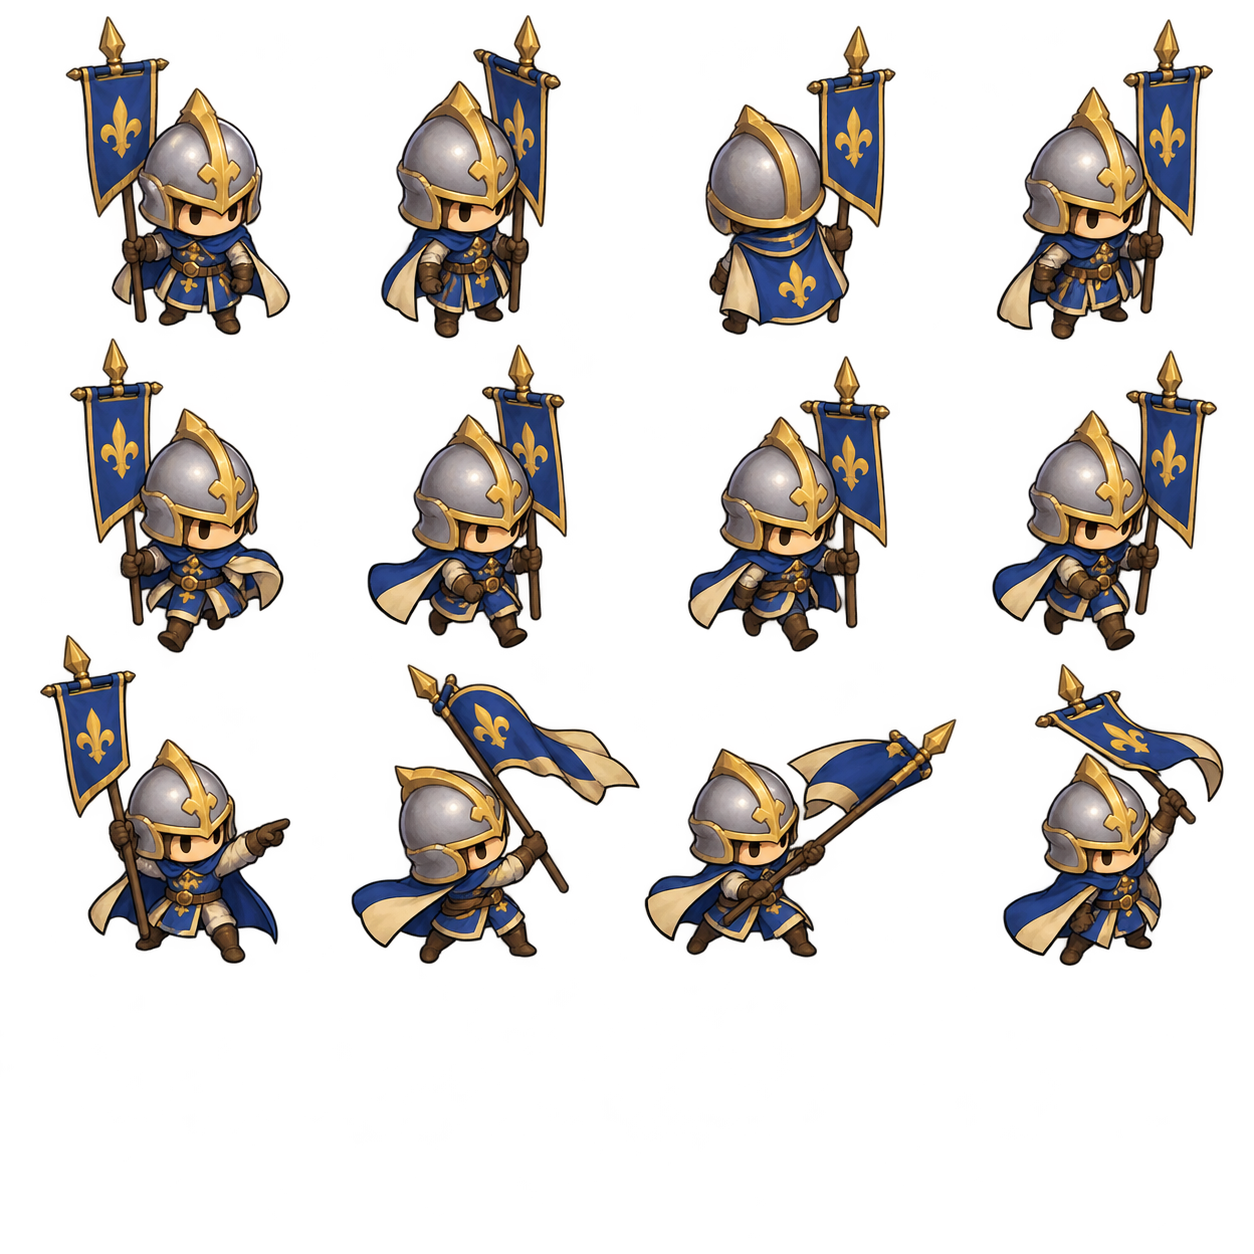
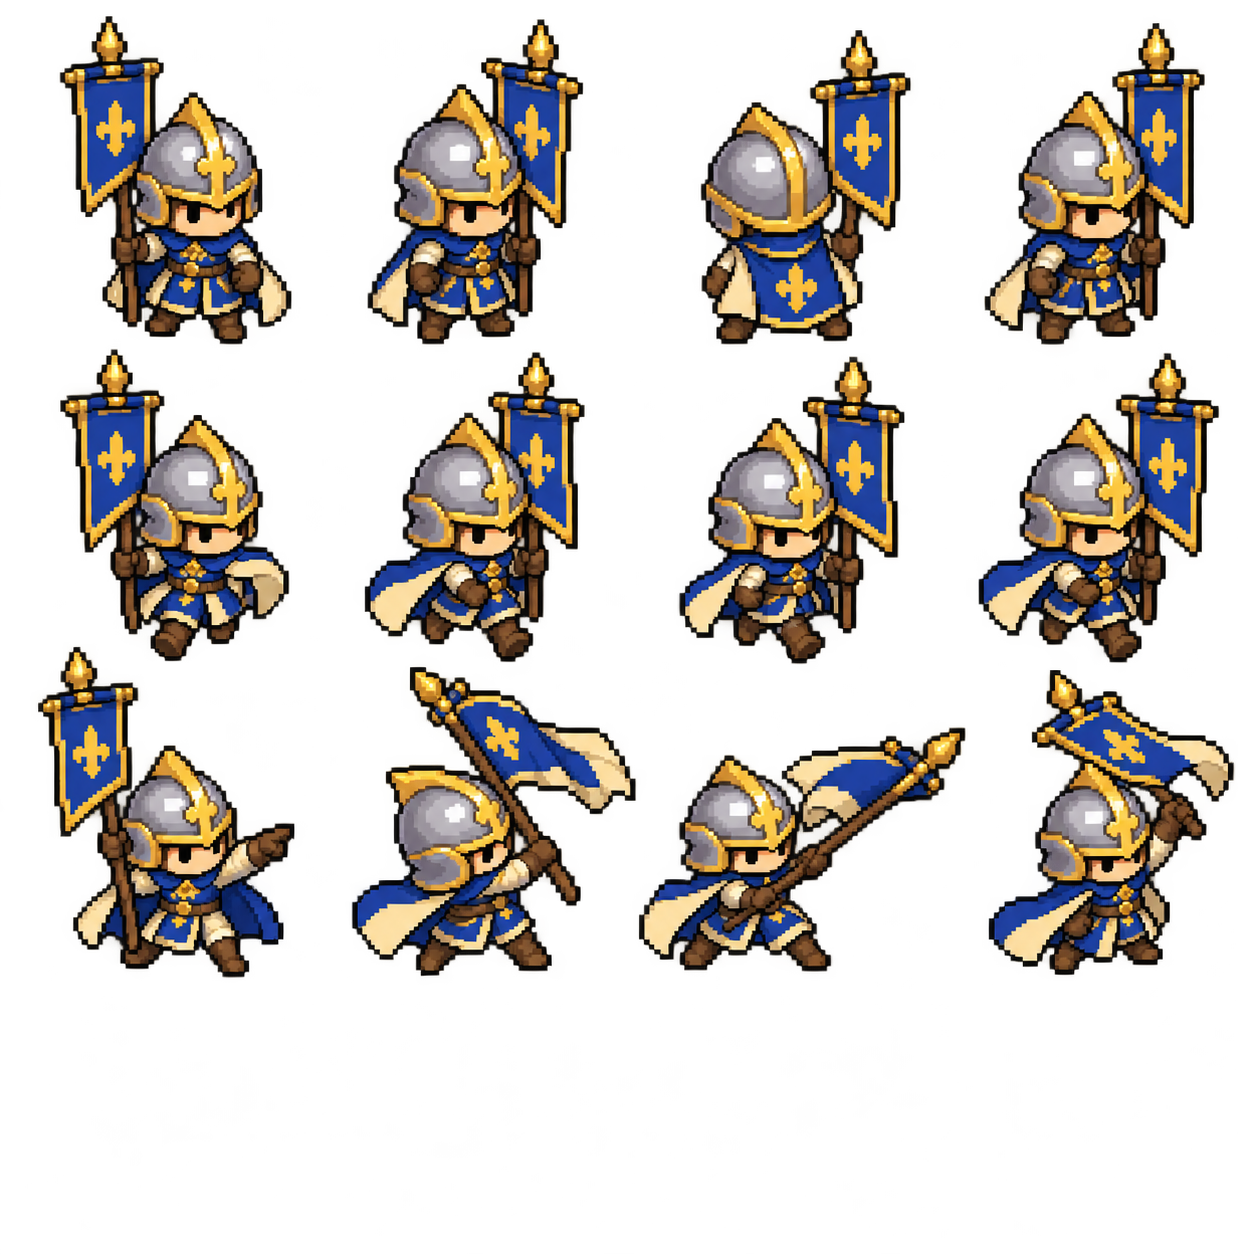
Restyle chibi soldiers as crisp pixel art

diff --git a/strategy-game/docs/superpowers/specs/2026-10-12-character-visual-phase-1-design.md b/strategy-game/docs/superpowers/specs/2026-10-12-character-visual-phase-1-design.md
@@ -18,7 +18,7 @@ This specification covers only phase 1: replacing the procedural soldier drawing
 
 ## Art direction and assets
 
-Characters use a consistent three-quarter, top-down view with compact proportions and clear equipment silhouettes. Spearmen carry a long vertical diagonal spear; swordsmen have shield and short blade; axemen have a broad axe; archers have bow and quiver; generals have a distinct cloak and banner or crest. Steel, leather, cloth, and wood should read as materials at gameplay zoom. Blue and red cloth identify teams without changing equipment shapes. The art uses a restrained earthy palette, soft painted shading, clean edges, and transparent backgrounds. No text, watermarks, or borrowed game assets.
+Characters use a consistent three-quarter, top-down view with compact proportions and clear equipment silhouettes. Spearmen carry a long vertical diagonal spear; swordsmen have shield and short blade; axemen have a broad axe; archers have bow and quiver; generals have a distinct cloak and banner or crest. Steel, leather, cloth, and wood should read as materials at gameplay zoom. Blue and red cloth identify teams without changing equipment shapes. The current art direction uses chibi proportions and deliberate pixel-art clusters, a restrained earthy palette, crisp stepped edges, and transparent backgrounds. No text, watermarks, or borrowed game assets.
 
 Each character type uses the same canvas size and a fixed foot anchor, so switching animation cannot make a unit jump. Source images and final game-ready frames live under `res://assets/units/`. Team variants can be derived by controlled cloth recoloring if they remain equally readable. The final in-game size must remain close to current unit footprints, and silhouettes must remain distinct at the default camera zoom.
 
@@ -26,7 +26,7 @@ Each character type uses the same canvas size and a fixed foot anchor, so switch
 
 Add an `AnimatedSprite2D` child to `scenes/unit.tscn`, backed by `SpriteFrames` resources or imported frame textures. Godot supports sprite sheets and individual frames in `AnimatedSprite2D` ([Godot 2D sprite animation guide](https://docs.godotengine.org/en/stable/tutorials/2d/2d_sprite_animation.html)). `unit.gd` selects the sprite set by unit type and team and changes animation using existing state and attack events. Idle loops while stationary, walk loops while moving, and attack plays briefly when damage is dealt before returning to the appropriate state. Horizontal mirroring follows the existing team facing. Animation timing must not delay or trigger attacks; gameplay remains authoritative.
 
-Keep selection rings, general aura, health bars, arrow traces, and hit feedback in `_draw()` for phase 1. Remove only the procedural body and equipment artwork after the new sprites are verified. A soft oval shadow remains under each sprite and follows its foot anchor. Character art must render above the ground shadow while selection and status indicators remain legible. Sprite import filtering should preserve intentional detail without introducing blur or jagged shimmering at the normal zoom range.
+Keep selection rings, general aura, health bars, arrow traces, and hit feedback in `_draw()` for phase 1. Remove only the procedural body and equipment artwork after the new sprites are verified. A soft oval shadow remains under each sprite and follows its foot anchor. Character art must render above the ground shadow while selection and status indicators remain legible. Sprites use nearest-neighbor filtering without mipmaps so the pixel grid remains crisp across camera zoom levels.
 
 ## Validation
 

diff --git a/strategy-game/docs/superpowers/plans/2026-10-12-character-visual-phase-1.md b/strategy-game/docs/superpowers/plans/2026-10-12-character-visual-phase-1.md
@@ -1,6 +1,6 @@
 # Character Visual Phase 1 Implementation Plan
 
-> Implementation record: the image generator produced 1254 × 1254 sheets. The final loader uses three clean cells per animation row because several fourth-column poses clip their cell. The code and tests are the source of truth for the shipped atlas contract.
+> Implementation record: the image generator produced 1254 × 1254 sheets. The final loader uses three clean cells per animation row because several fourth-column poses clip their cell. The character sheets were later restyled into chibi pixel art with nearest-neighbor filtering and no mipmaps. The code and tests are the source of truth for the shipped atlas contract.
 
 **Goal:** Replace procedural soldier art with original, cohesive 2D sprites for five roles and two teams, with idle, walk, and attack animation, while preserving gameplay.
 
